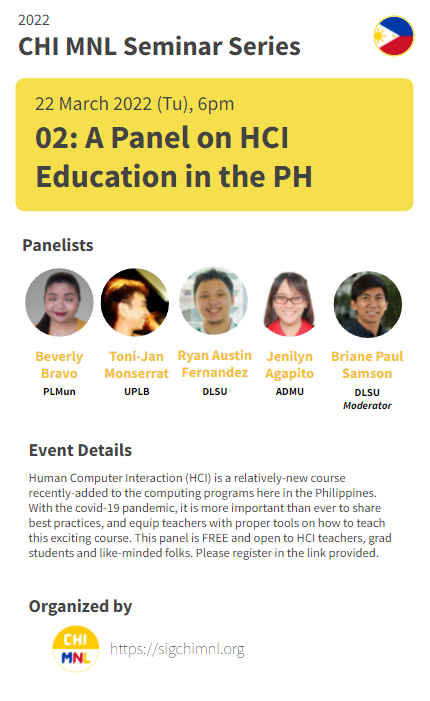
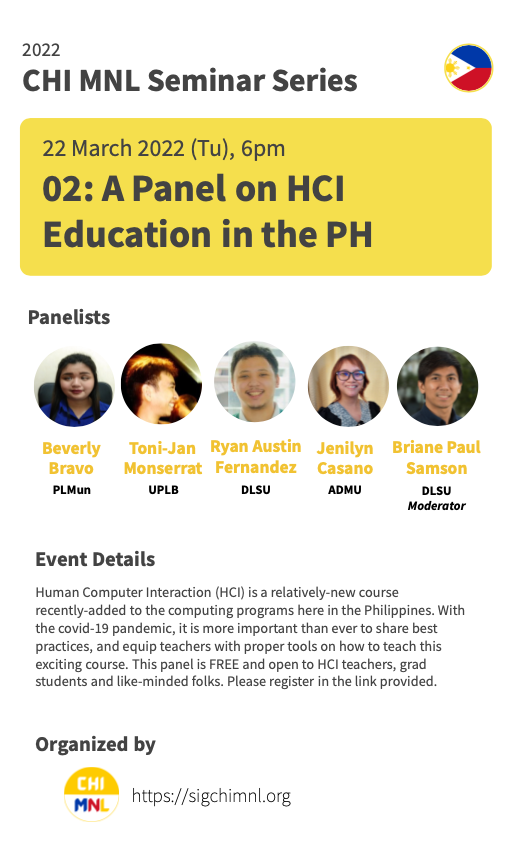
added speaker images

Changed region(s): [[0.0302, 0.0, 0.9674, 0.5991], [0.0605, 0.6291, 0.907, 0.8088], [0.0605, 0.8388, 0.5744, 0.9586]]

diff --git a/event/chi-mnl-series-2.md b/event/chi-mnl-series-2.md
@@ -1,13 +1,36 @@
 ---
 layout: default
 title: "CHI MNL | CHI MNL Series 01: Why we teach and do research in HCI"
-speakers: [ { name: "Beverly Bravo", title: "PLMun", image: "../../assets/img/execom/jordan.jpg" }, 
-            { name: "Toni-Jan K Monserrat", title: "Assistant Professor, UPLB", image: "../../assets/img/execom/tj.png" },  
-            { name: "Ryan Austin Fernandez", title: "DLSU", image: "../../assets/img/execom/ralph.jpg" }, 
-            { name: "Jenilyn Agapito", title: "ADMU", image: "../../assets/img/execom/ralph.jpg" }, 
-            { name: "Briane Paul V. Samson", title: "Moderator", image: "../../assets/img/execom/briane.jpg" } 
+speakers:
+  [
+    {
+      name: "Beverly Bravo",
+      title: "PLMun",
+      image: "../../assets/img/events/beverly.jpg",
+    },
+    {
+      name: "Toni-Jan K Monserrat",
+      title: "Assistant Professor, UPLB",
+      image: "../../assets/img/execom/tj.png",
+    },
+    {
+      name: "Ryan Austin Fernandez",
+      title: "DLSU",
+      image: "../../assets/img/events/austin.jpg",
+    },
+    {
+      name: "Jenilyn Agapito",
+      title: "ADMU",
+      image: "../../assets/img/events/jenilyn.jpg",
+    },
+    {
+      name: "Briane Paul V. Samson",
+      title: "Moderator",
+      image: "../../assets/img/execom/briane.jpg",
+    },
   ]
 ---
+
 <style>
     section{
         padding: 96px 0;
